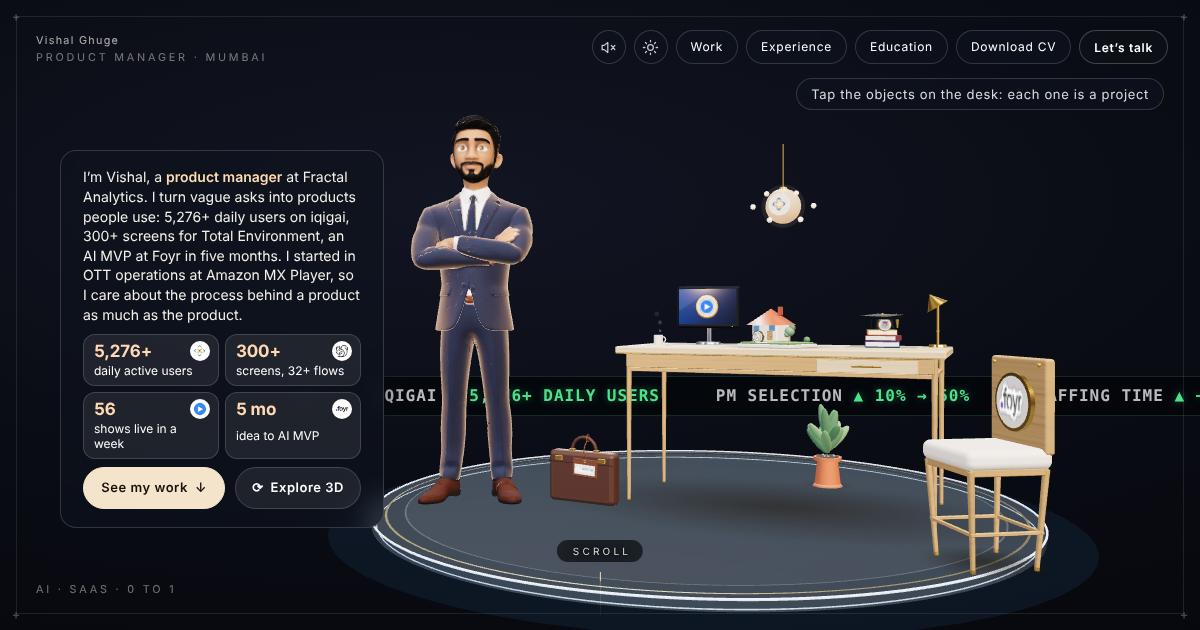
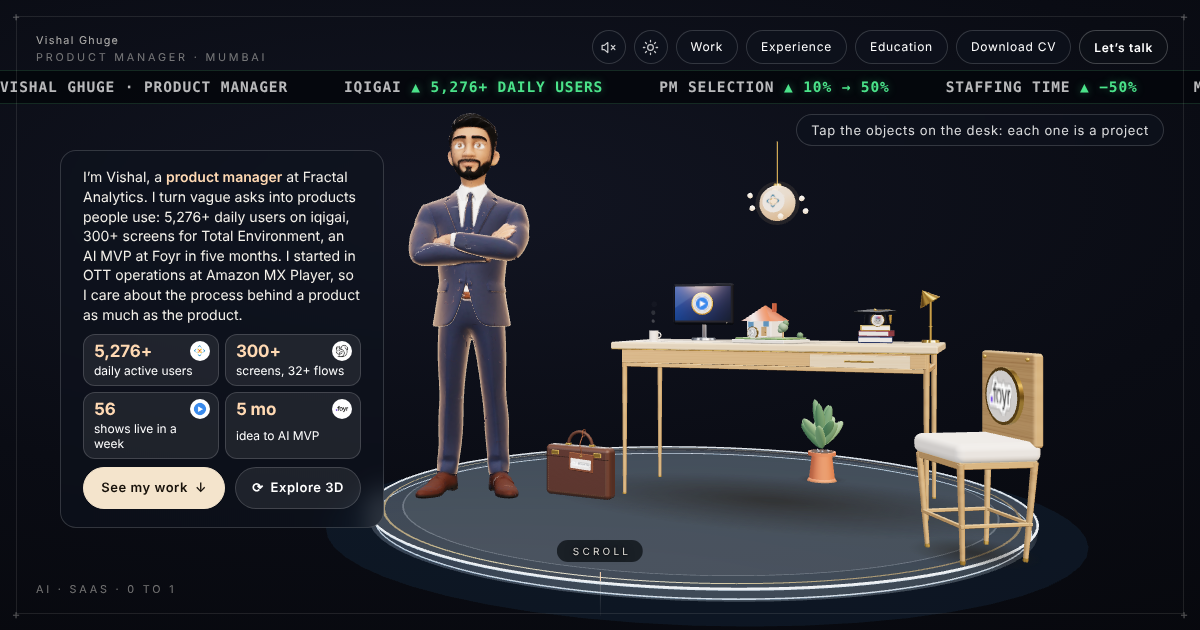
Ticker as a top marquee on every screen
- Desktop: directly under the top bar, hint pill moved below it; clear of the avatar's head down to 1280x720
- Phones: 12px lower so it never touches the top bar
- Refresh og.png

Claude-Session: https://claude.ai/code/session_01SWnfNPGbFHhiGrXWnwnedS

diff --git a/web/src/styles.css b/web/src/styles.css
@@ -2941,7 +2941,7 @@ html[data-theme='light'] .topbar .topbar-menu { color: var(--ink); }
 .tkb-item em { font-style: normal; color: #4be38a; text-shadow: 0 0 8px rgba(75, 227, 138, 0.4); }
 @keyframes tkb-scroll { to { transform: translateX(-50%); } }
 @media (max-width: 1099px) {
-  .tkb-band { bottom: auto; top: calc(env(safe-area-inset-top, 0px) + 72px); height: 30px; }
+  .tkb-band { bottom: auto; top: calc(env(safe-area-inset-top, 0px) + 84px); height: 30px; }
   .tkb-item { font-size: 12.5px; line-height: 30px; padding-right: 36px; }
 }
 @media (prefers-reduced-motion: reduce) { .tkb-track { animation: none; } }
@@ -2949,9 +2949,12 @@ html[data-theme='light'] .tkb { background: radial-gradient(120% 85% at 38% 32%,
 html[data-theme='light'] .tkb-band { background: rgba(255, 255, 255, 0.8); border-color: rgba(18, 138, 74, 0.18); }
 html[data-theme='light'] .tkb-item i { color: rgba(27, 31, 42, 0.72); }
 html[data-theme='light'] .tkb-item em { color: #128a4a; text-shadow: none; }
-/* desktop: fade the ribbon out behind the hero card on the left */
+/* desktop: a marquee directly under the top bar (clear of the avatar's head even on short laptop screens);
+   the "Tap the objects" hint pill moves just below it */
 @media (min-width: 1100px) {
-  .tkb-band { -webkit-mask-image: linear-gradient(90deg, transparent 0, transparent 24%, #000 34%, #000 100%); mask-image: linear-gradient(90deg, transparent 0, transparent 24%, #000 34%, #000 100%); }
+  .tkb-band { bottom: auto; top: calc(clamp(16px, 2.4vh, 30px) + 54px); height: 34px; }
+  .tkb-item { font-size: 14.5px; line-height: 34px; }
+  .sticker-hint { top: calc(clamp(16px, 2.4vh, 30px) + 98px) !important; }
 }
 /* tablet: clear the top bar and its hint line */
 @media (min-width: 641px) and (max-width: 1099px) { .tkb-band { top: calc(env(safe-area-inset-top, 0px) + 112px); } }

diff --git a/web/index.html b/web/index.html
@@ -17,7 +17,7 @@
       content="Product Manager at Fractal Analytics. Case studies: iqigai (AI staffing platform with 5,276+ daily users), a 300+ screen 3D design tool, an AI MVP in 5 months, and 56 shows live in a week at Amazon MX Player."
     />
     <meta property="og:url" content="https://vishalghuge-git.github.io/portfolio/" />
-    <meta property="og:image" content="https://vishalghuge-git.github.io/portfolio/og.png?v=6" />
+    <meta property="og:image" content="https://vishalghuge-git.github.io/portfolio/og.png?v=7" />
     <meta property="og:image:width" content="1200" />
     <meta property="og:image:height" content="630" />
     <meta property="og:image:alt" content="Vishal Ghuge's portfolio: a 3D studio with his work and case studies" />
@@ -25,7 +25,7 @@
     <meta name="twitter:card" content="summary_large_image" />
     <meta name="twitter:title" content="Vishal Ghuge · Product Manager" />
     <meta name="twitter:description" content="AI and SaaS products from 0 to 1. Case studies from Fractal, Foyr, Total Environment and Amazon MX Player." />
-    <meta name="twitter:image" content="https://vishalghuge-git.github.io/portfolio/og.png?v=6" />
+    <meta name="twitter:image" content="https://vishalghuge-git.github.io/portfolio/og.png?v=7" />
     <link rel="preconnect" href="https://fonts.googleapis.com" />
     <link rel="preconnect" href="https://fonts.gstatic.com" crossorigin />
     <link

diff --git a/web/src/scene/TickerBackdrop.tsx b/web/src/scene/TickerBackdrop.tsx
@@ -1,8 +1,7 @@
 import { useEffect, useRef } from 'react'
 
 // Minimal "Times Square" backdrop behind the 3D avatar: a plain backdrop with one stock-board ticker.
-// Desktop: a low ribbon behind the stage, so it never crosses the face, the hero card or headings.
-// Phones: a thin strip under the top bar (the space above the head is empty there).
+// A marquee just under the top bar, above the avatar's head, on desktop, tablet and phones.
 // It fades out once the visitor scrolls past the hero, and stops scrolling for reduced motion.
 
 const ITEMS: [string, string][] = [
